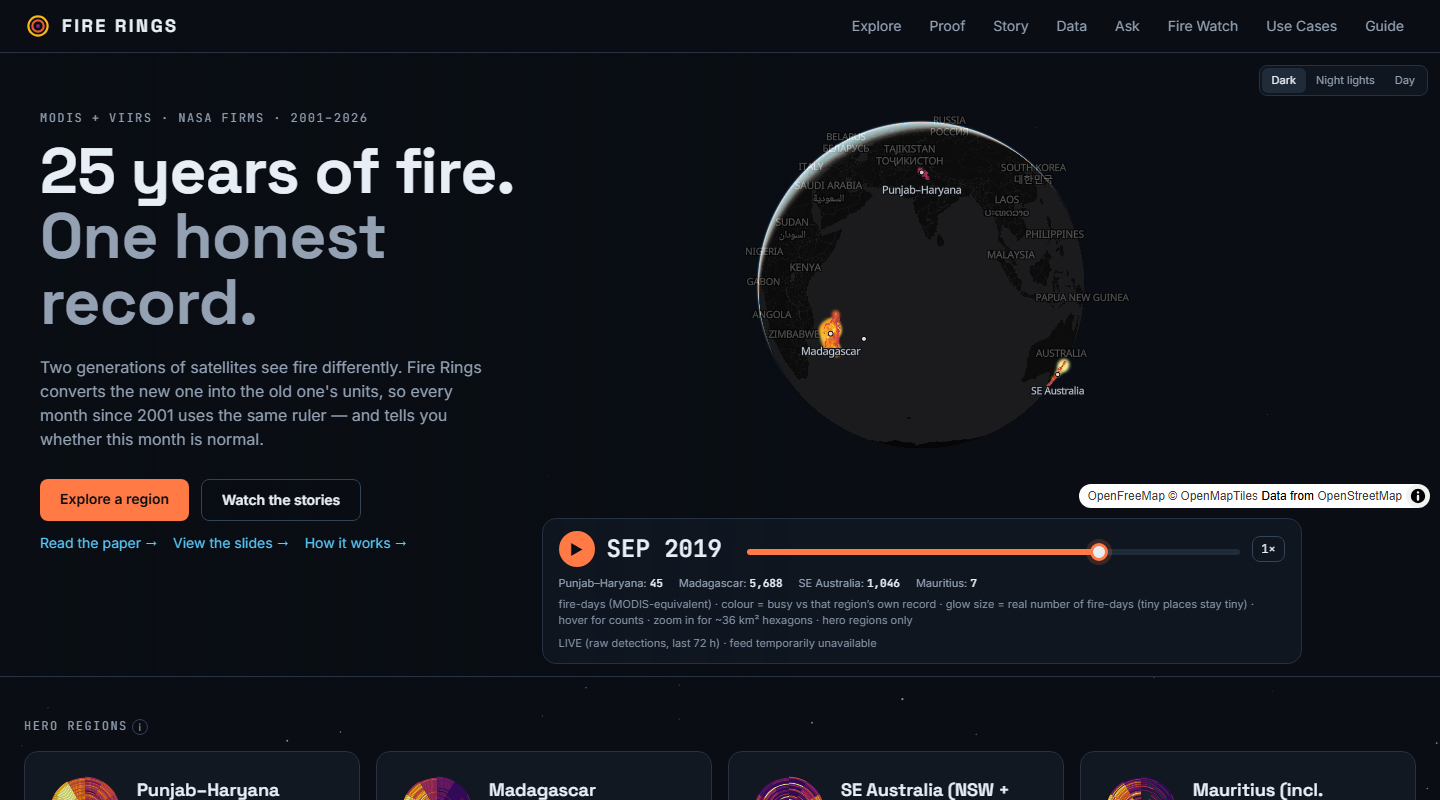
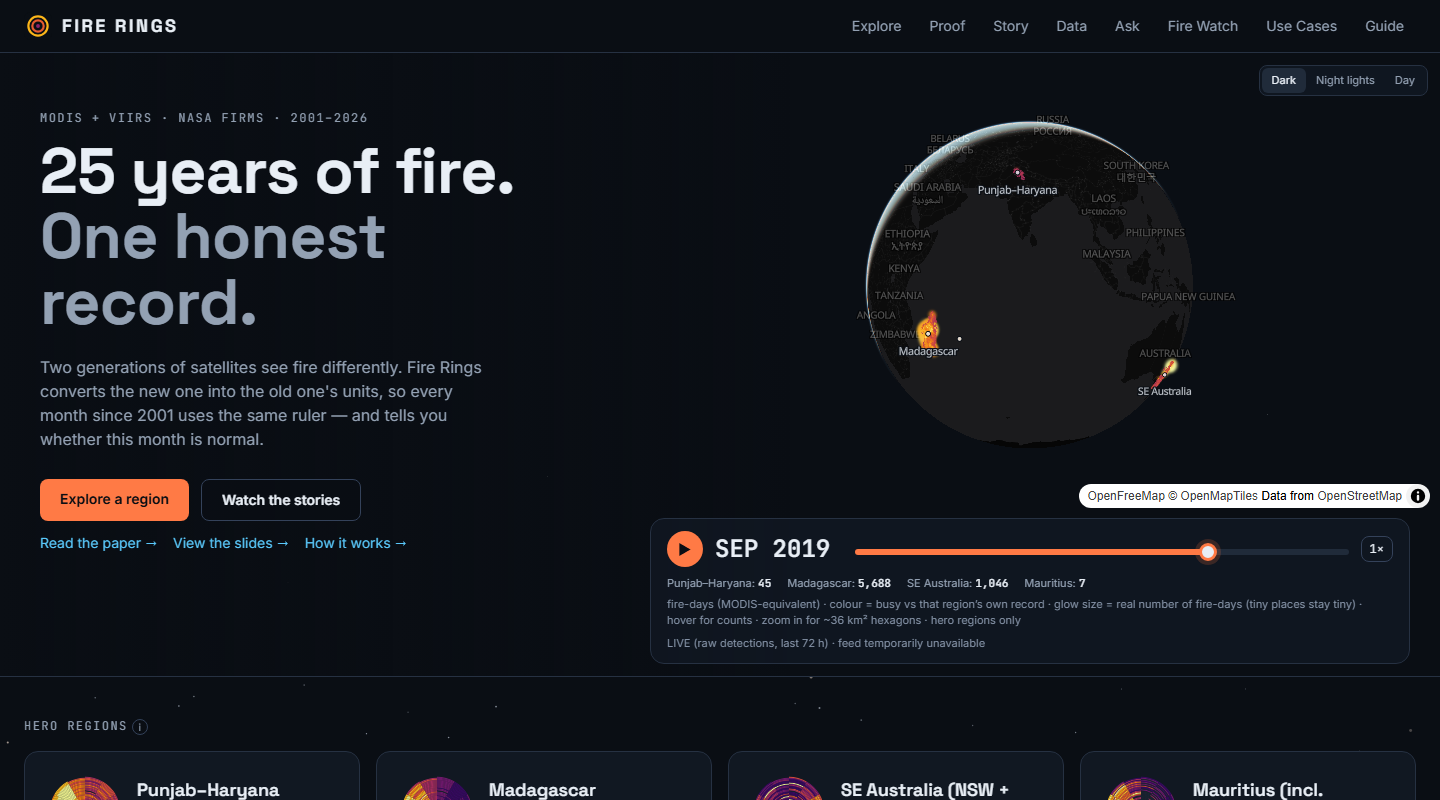
fix(#76): globe Day / Night lights — zoom 0–3 of the same GIBS layers served locally (/tiles, 170 tiles, 2.6 MB, fetched once at ≤4 req/s by scripts/fetch_gibs_tiles.mjs), GIBS only from zoom 4 to its Level8 max; local layer stays underneath so loading tiles never show as grey squares; 300 ms raster

diff --git a/web/src/components/GlobeTimelapse.tsx b/web/src/components/GlobeTimelapse.tsx
@@ -26,6 +26,16 @@ const GIBS: Record<Exclude<GlobeStyle, 'dark'>, string> = {
   night: 'https://gibs.earthdata.nasa.gov/wmts/epsg3857/best/VIIRS_Black_Marble/default/2016-01-01/GoogleMapsCompatible_Level8/{z}/{y}/{x}.png',
   day: 'https://gibs.earthdata.nasa.gov/wmts/epsg3857/best/BlueMarble_NextGeneration/default/GoogleMapsCompatible_Level8/{z}/{y}/{x}.jpeg',
 }
+// #76: zoom 0–3 of the same layers are served from /tiles (fetched once by scripts/fetch_gibs_tiles.mjs), so the default
+// views never wait on GIBS; GIBS itself is used only from zoom 4 up to 8 (Level8 = the deepest level it serves).
+const LOCAL: Record<Exclude<GlobeStyle, 'dark'>, string> = { night: '/tiles/night/{z}/{x}/{y}.png', day: '/tiles/day/{z}/{x}/{y}.jpeg' }
+const LOCAL_MAXZ = 3, GIBS_MAXZ = 8
+/** Warm the browser cache with the local z0–2 tiles (21 per layer) when a NASA style is picked. */
+function preloadLocal(k: Exclude<GlobeStyle, 'dark'>) {
+  for (let z = 0; z <= 2; z++) for (let x = 0; x < 2 ** z; x++) for (let y = 0; y < 2 ** z; y++) {
+    const img = new Image(); img.src = LOCAL[k].replace('{z}', String(z)).replace('{x}', String(x)).replace('{y}', String(y))
+  }
+}
 const STYLE_LABEL: Record<GlobeStyle, string> = { dark: 'Dark', night: 'Night lights', day: 'Day' }
 function storedStyle(): GlobeStyle {
   try { const v = localStorage.getItem('fr.globeStyle'); return v === 'night' || v === 'day' ? v : 'dark' } catch { return 'dark' }
@@ -149,10 +159,13 @@ export default function GlobeTimelapse({ docs, live }: Props) {
       // NASA GIBS rasters above the style's land/water fills, below borders, labels and the fire layers
       const firstLine = mp.getStyle().layers.find((l) => l.type === 'line' || l.type === 'symbol')?.id
       for (const k of ['night', 'day'] as const) {
-        mp.addSource(`gibs-${k}`, { type: 'raster', tiles: [GIBS[k]], tileSize: 256, maxzoom: 8, attribution: 'Imagery: NASA GIBS (VIIRS Black Marble · Blue Marble)' })
-        mp.addLayer({ id: `gibs-${k}`, type: 'raster', source: `gibs-${k}`, layout: { visibility: 'none' },
-          // night lights in grey so city lights never look like fire; day imagery dimmed so the hexagons keep contrast
-          paint: k === 'night' ? { 'raster-saturation': -1, 'raster-brightness-max': 0.7, 'raster-contrast': 0.1 } : { 'raster-brightness-max': 0.62, 'raster-saturation': -0.25 } }, firstLine)
+        // night lights in grey so city lights never look like fire; day imagery dimmed so the hexagons keep contrast
+        const paint = { ...(k === 'night' ? { 'raster-saturation': -1, 'raster-brightness-max': 0.7, 'raster-contrast': 0.1 } : { 'raster-brightness-max': 0.62, 'raster-saturation': -0.25 }), 'raster-fade-duration': 300 }
+        // local z0–3 (over-zoomed underneath at higher zoom, so a GIBS tile still loading never shows as a grey square)
+        mp.addSource(`gibs-${k}-local`, { type: 'raster', tiles: [LOCAL[k]], tileSize: 256, maxzoom: LOCAL_MAXZ, attribution: 'Imagery: NASA GIBS (VIIRS Black Marble · Blue Marble)' })
+        mp.addLayer({ id: `gibs-${k}-local`, type: 'raster', source: `gibs-${k}-local`, layout: { visibility: 'none' }, paint }, firstLine)
+        mp.addSource(`gibs-${k}`, { type: 'raster', tiles: [GIBS[k]], tileSize: 256, minzoom: LOCAL_MAXZ + 1, maxzoom: GIBS_MAXZ })
+        mp.addLayer({ id: `gibs-${k}`, type: 'raster', source: `gibs-${k}`, minzoom: LOCAL_MAXZ + 1, layout: { visibility: 'none' }, paint }, firstLine)
       }
       // QA #1/#65/#70: real fire hexagons. Colour = relative to the region's own record (seasons breathe);
       // glow size = absolute fire-days on one global scale (tiny places stay tiny).
@@ -218,7 +231,8 @@ export default function GlobeTimelapse({ docs, live }: Props) {
   useEffect(() => {
     const mp = map.current
     if (!ready || !mp) return
-    for (const k of ['night', 'day'] as const) if (mp.getLayer(`gibs-${k}`)) mp.setLayoutProperty(`gibs-${k}`, 'visibility', gstyle === k ? 'visible' : 'none')
+    for (const k of ['night', 'day'] as const) for (const id of [`gibs-${k}-local`, `gibs-${k}`]) if (mp.getLayer(id)) mp.setLayoutProperty(id, 'visibility', gstyle === k ? 'visible' : 'none')
+    if (gstyle !== 'dark') preloadLocal(gstyle)
     for (const id of ['hex-fill', 'hex6-fill']) if (mp.getLayer(id)) {
       mp.setPaintProperty(id, 'fill-outline-color', gstyle === 'day' ? '#0A0E14' : 'rgba(0,0,0,0)')
     }

diff --git a/DATA_SOURCES.md b/DATA_SOURCES.md
@@ -12,7 +12,7 @@ Every data source and software library used by Fire Rings. Updated as each is ad
 | NASA FIRMS — VIIRS 375 m active fire, NOAA-20 (VJ114IMG) | J1V-C2, SP + NRT, 2018-04-01 → 2026-11-08 | Continuity after S-NPP (k′ link) | same | same |
 | NASA FIRMS — VIIRS 375 m active fire, NOAA-21 (VJ214IMG) | J2V-C2, SP + NRT, 2023-03-01 → 2026-11-08 | Cross-check / continuity | same | same |
 | NASA POWER (Prediction Of Worldwide Energy Resources), MERRA-2 | Monthly + daily point API v2.10, PRECTOTCORR, T2M, community AG, 2001 → Oct 2026 | Rain + temperature per region (`api/power/*.json`, companion fact-check app) | https://power.larc.nasa.gov/ (fetched 11 Nov 2026, `pipeline/tools/fetch_power.py`) | NASA open data; "Data obtained from the NASA Langley Research Center POWER Project" |
-| NASA GIBS (Global Imagery Browse Services) | WMTS EPSG:3857 `VIIRS_Black_Marble` (2016), `BlueMarble_NextGeneration`; WMS EPSG:4326 `MERRA2_Total_Aerosol_Optical_Thickness_550nm_Extinction_Monthly` (1980-01 → 2026-08) | Home globe basemaps (Night lights / Day); companion smoke tracker aerosol layer | https://gibs.earthdata.nasa.gov (layer names from GetCapabilities, 11 Nov 2026) | NASA open data; imagery credited "NASA GIBS" |
+| NASA GIBS (Global Imagery Browse Services) | WMTS EPSG:3857 `VIIRS_Black_Marble` (2016), `BlueMarble_NextGeneration`; WMS EPSG:4326 `MERRA2_Total_Aerosol_Optical_Thickness_550nm_Extinction_Monthly` (1980-01 → 2026-08) | Home globe basemaps (Night lights / Day); companion smoke tracker aerosol layer. Zoom 0–3 of both globe layers (85 tiles each, 2.6 MB in total) are cached once in `web/public/tiles/{night,day}/{z}/{x}/{y}` by `web/scripts/fetch_gibs_tiles.mjs` (fetched 11 Nov 2026, ≤ 4 req/s) from `https://gibs.earthdata.nasa.gov/wmts/epsg3857/best/{VIIRS_Black_Marble/default/2016-01-01 | BlueMarble_NextGeneration/default}/GoogleMapsCompatible_Level8/{z}/{y}/{x}.{png|jpeg}`; zoom 4–8 load live from GIBS. Credit shown on the globe: “Imagery: NASA GIBS” | https://gibs.earthdata.nasa.gov (layer names from GetCapabilities, 11 Nov 2026) | NASA open data; imagery credited "NASA GIBS" |
 | NASA Worldview | deep links (date + area + MERRA-2 layer) | "See it on NASA Worldview" in the companion smoke tracker | https://worldview.earthdata.nasa.gov | NASA open data |
 | Smithsonian Institution Global Volcanism Program — Volcanoes of the World (VOTW) | Holocene eruptions, Piton de la Fournaise (233020), 30 eruption periods since 2000 | Eruption dates for the Réunion ground-truth check (`api/reunion.json`) | WFS https://webservices.volcano.si.edu/geoserver/GVP-VOTW/ows ; page https://volcano.si.edu/volcano.cfm?vn=233020 (fetched 11 Nov 2026) | Cite: Global Volcanism Program, Smithsonian Institution, Volcanoes of the World |
 | NASA FIRMS Area API — Piton de la Fournaise box | MODIS_SP, VIIRS_SNPP_SP, windows around each GVP eruption | Réunion check | https://firms.modaps.eosdis.nasa.gov/api/area/ | as FIRMS above |
